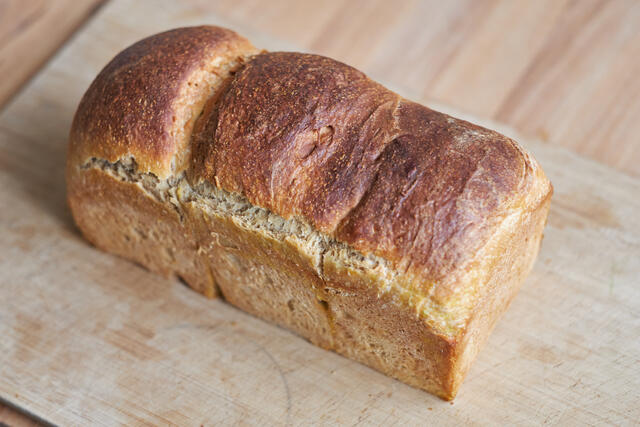
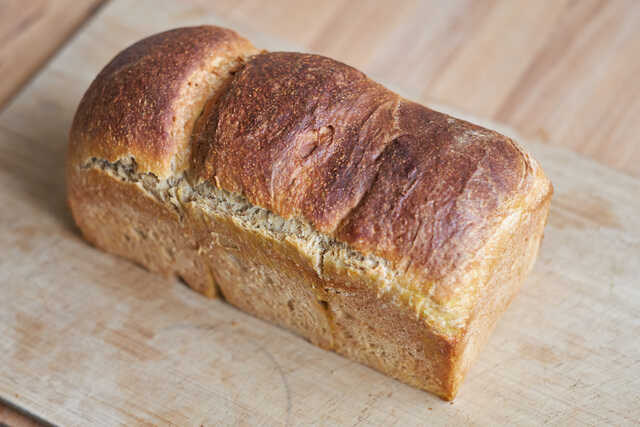
updated index with responsive images

diff --git a/index.html b/index.html
@@ -34,7 +34,7 @@
 		<div class="postdate"> 12.12.2019
 		</div>
 		<p>Brioche wird klassischerweise mit Hefe zubereitet. Da ich nie frische Hefe zuhause habe, habe ich ein Rezept mit Sauerteig entwickelt. Das Ergebnis ist ein superweiches, leicht süßes Brot, das an Hefezopf erinnert, aber viel aromatischer und lockerer ist. Eine bessere Version des Hefezopfs also. Das Rezept ist mein Standardrezept für hefefreien Hefeteig. Ich verwende ihn für Brioche, Zimtschnecken, Nusszopf, Blechkuchen, Buchteln, was auch immer. Wichtig ist aber: er braucht Zeit. Das ist aber gut so, finde ich. Anstatt des Weizenmehls funktioniert auch Dinkelmehl Type 630.</p>
-		<p><img alt="Brioche" src="images/brioche1.jpg"></p>       
+        <img src="../../images/brioche0-s.jpg" srcset=" ../../images/brioche0-s.jpg 320w, ../../images/brioche0-m.jpg 640w, ../../images/brioche0-l.jpg 1280w, ../../images/brioche0-xl.jpg 2560w" sizes=" (max-width: 768px) 100vw, (min-width: 768px) 80vw, (min-width: 1920px) 40vw," alt="brioche0" />
 		<li class="navelem"><a href="recipes/brioche-mit-sauerteig-und-nusszopf-vegan/">Weiterlesen...</a></li>
         </div>
 	<div class="postpreview">
@@ -50,7 +50,7 @@
 		<div class="postdate"> 05.01.2020
 		</div>
 		<p>In diesem Rezept zeige ich euch, wie man leckere Brezeln mit Sauerteig backt. Das Rezept ist für 12 Laugenteilchen ausgelegt, die als Brezeln, Brötchen, Stangen oder Bagel geformt werden können. Ich arbeite gerne mit echter Lauge, diese kann man als 4%ige Lösung in Bäckereien oder Apoteken erhalten oder als Laugenperlen im Internet. Im Gegensatz zu Natron schmeckt das Gebäck dann auch wie vom Bäcker.</p>
-	<p><img alt="Brezeln" src="images/brezel1.JPG"></p>
+    <img src="../../images/brezel1-s.jpg" srcset=" ../../images/brezel1-s.jpg 320w, ../../images/brezel1-m.jpg 640w, ../../images/brezel1-l.jpg 1280w, ../../images/brezel1-xl.jpg 2560w" sizes=" (max-width: 768px) 100vw, (min-width: 768px) 80vw, (min-width: 1920px) 40vw," alt="brezel1" />
 	<li class="navelem"><a href="recipes/laugenbrezeln-mit-sauerteig/">Weiterlesen...</a></li>
 	</div>
     </div> 
